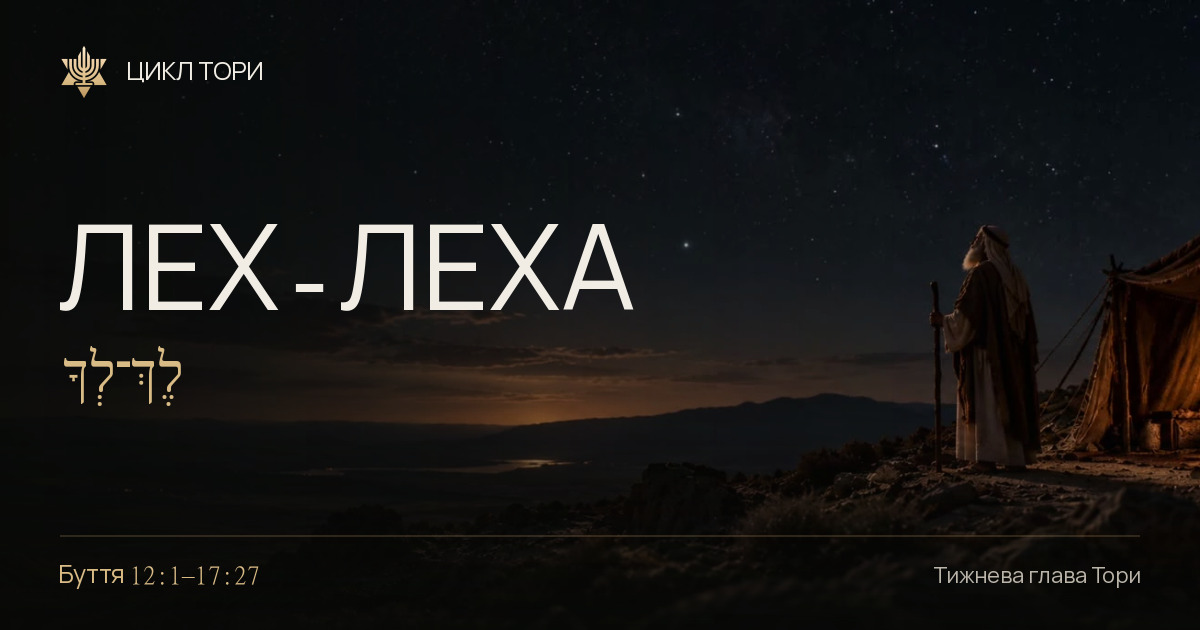
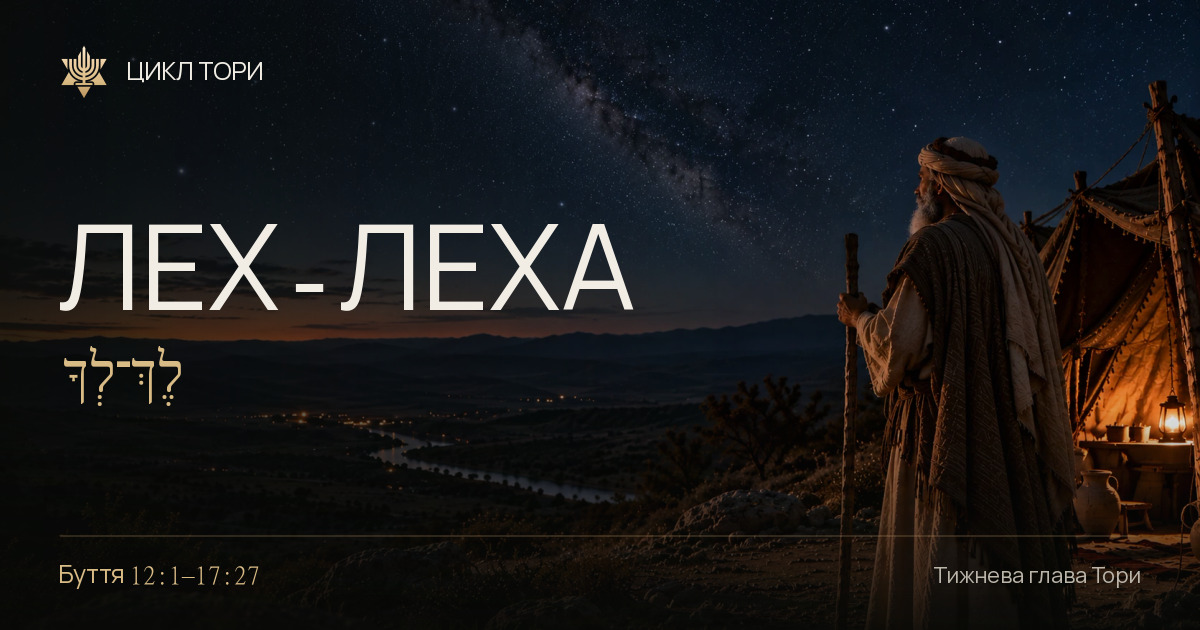
00003

diff --git a/src/content/parashot/5787/lech-lecha.md b/src/content/parashot/5787/lech-lecha.md
@@ -12,7 +12,7 @@ readingUrl: "https://www.bible.com/uk/bible/3786/GEN.12.CUV"
 gregorianDate: "2026-10-24"
 hebrewDate: "13 хешвана 5787"
 heroImage: "/images/parashot/5787/lech-lecha/cover.webp"
-heroAlt: "Мандрівник біля намету дивиться на зорі в нічній пустелі"
+heroAlt: "Мандрівник із посохом біля намету дивиться на зоряне небо над долиною"
 essence: "Божий задум може бути більшим за наші уявлення, але для наступного кроку нам часто достатньо знати лише те, що Він уже відкрив."
 shareDescription: "Авраам рушив у невідомість, маючи лише обіцянку. Чи можемо й ми довіряти Богові, не знаючи всього шляху?"
 reflectionQuestions:
